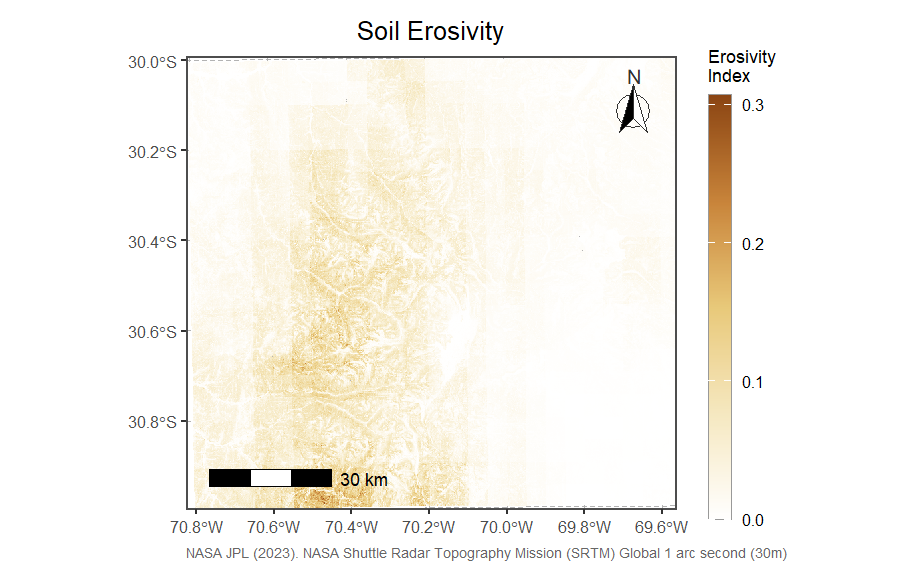
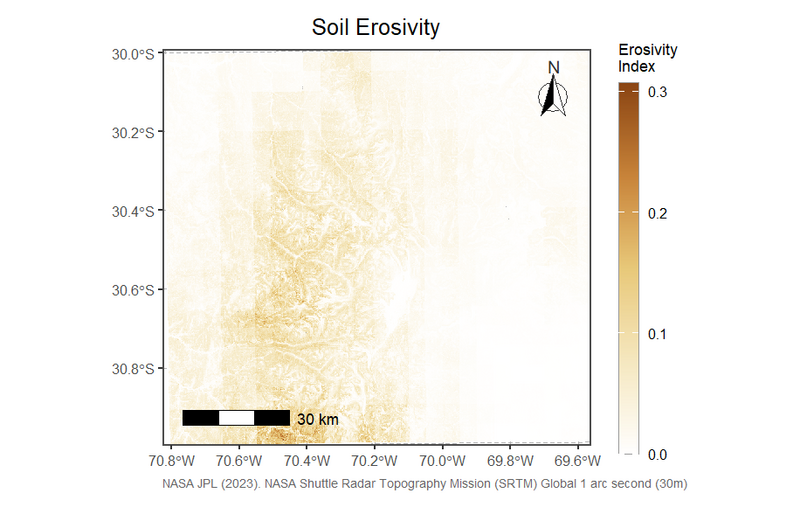
change image size

diff --git a/README.md b/README.md
@@ -43,10 +43,10 @@ depends on the climate zone of the study area and should correspond to the
 respective rainy season (see Table 2). The package automatically prints the 
 recommended period at each call of `calc_r_factor()`.
 
-<img src="man/figures/table_requirements.png" width="600"/>
+<img src="man/figures/table_requirements.png" width="100%"/>
 
 ## Workflow
-<img src="man/figures/workflow.png" width="600"/>
+<img src="man/figures/workflow.png" width="100%"/>
 
 ## Water mask to mask out lakes
 `apply_water_mask()` computes the Normalized Difference Water Index (NDWI)
@@ -75,7 +75,7 @@ ndvi_masked <- apply_water_mask(
                )
 ```
 
-<img src="man/figures/water_mask_final.png" width="600"/>
+<img src="man/figures/water_mask_final.png" width="100%"/>
 
 
 ## Region-specific Rainfall erosivity calculation (R-factor)
@@ -102,7 +102,7 @@ r_factor <- calc_r_factor(
             )
 ```
 
-<img src="man/figures/r_factor_final.png" width="600"/>
+<img src="man/figures/r_factor_final.png" width="100%"/>
 
 ## Calculation of topographic influence on erosion (LS-factor)
 `calc_ls_factor()` computes the RUSLE topographic LS-factor from a digital
@@ -122,7 +122,7 @@ ls_factor <- calc_ls_factor(
              )
 ```
 
-<img src="man/figures/ls_factor_final.png" width="600"/>
+<img src="man/figures/ls_factor_final.png" width="100%"/>
 
 ## Calculation of vegetation cover influence of erosion (C-factor)
 `calc_c_factor()` computes the RUSLE vegetation cover factor (C-factor) from
@@ -146,7 +146,7 @@ c_factor <- calc_c_factor(
             )
 ```
 
-<img src="man/figures/c_factor_final.png" width="600"/>
+<img src="man/figures/c_factor_final.png" width="100%"/>
 
 ## Erosion risk map
 `calc_erosion_risk()` combines the R, LS, and C factors into a dimensionless
@@ -170,4 +170,4 @@ result <- calc_erosion_risk(
           )
 ```
 
-<img src="man/figures/eri_final.png" width="600"/>
+<img src="man/figures/eri_final.png" width="100%"/>
